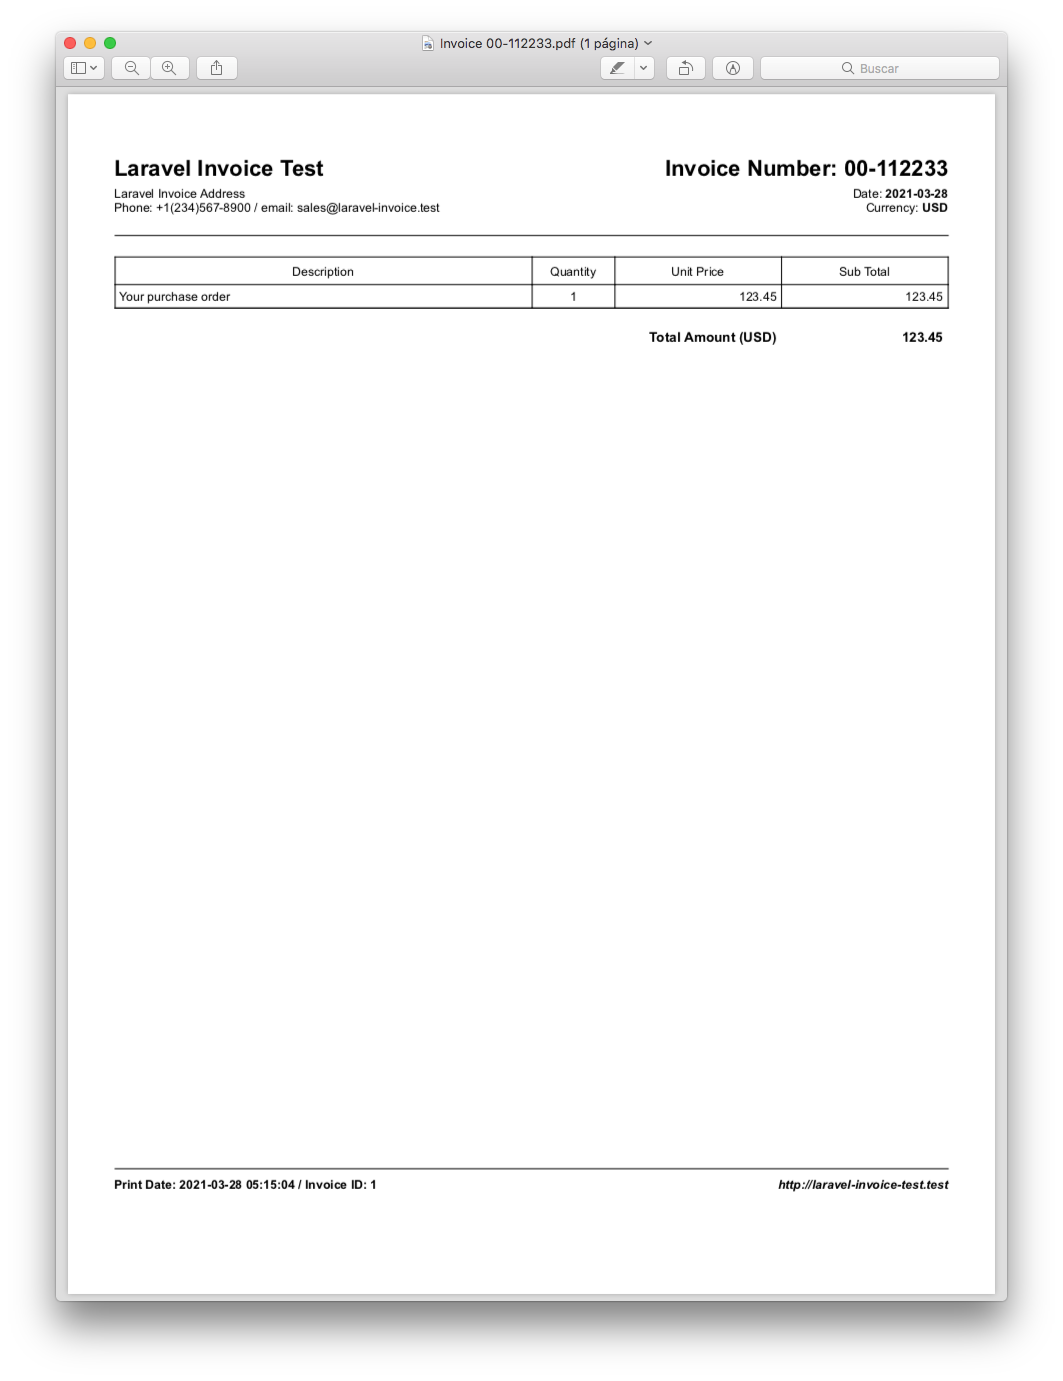
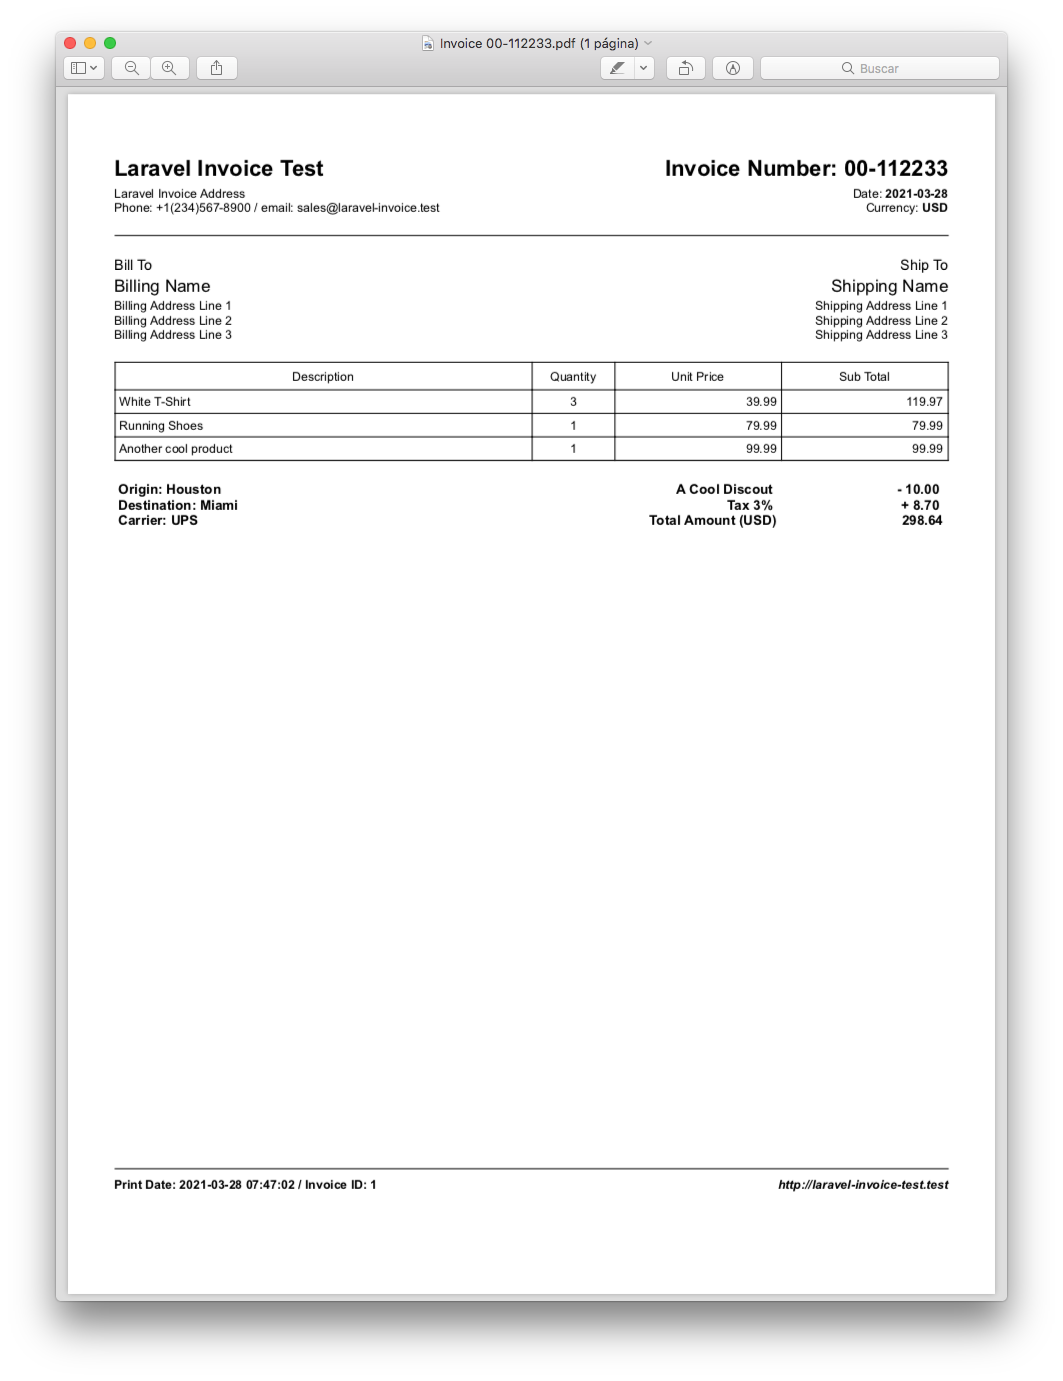
readme

diff --git a/README.md b/README.md
@@ -7,12 +7,32 @@ Laraval package that allows you to create invoices, manage payments and track th
 
 use AroutinR\Inovoice\Facades\CreateInvoice;
 
-$invoice = CreateInvoice::for(User::class, Order::class)
-	->invoiceLine('Your purchase order', 1, 12345)
+return CreateInvoice::for($customer, $invoiceable)
+	->billingAddress([
+		'name' => 'Billing Name',
+		'line_1' => 'Billing Address Line 1',
+		'line_2' => 'Billing Address Line 2',
+		'line_3' => 'Billing Address Line 3',
+	])
+	->shippingAddress([
+		'name' => 'Shipping Name',
+		'line_1' => 'Shipping Address Line 1',
+		'line_2' => 'Shipping Address Line 2',
+		'line_3' => 'Shipping Address Line 3',
+	])
+	->invoiceNumber('00-112233')
+	->invoiceLine('White T-Shirt', 3, 3999)
+	->invoiceLine('Running Shoes', 1, 7999)
+	->invoiceLine('Another cool product', 1, 9999)
+	->fixedDiscountLine('A Cool Discout', 1000)
+	->taxLine('Tax 3%', 3)
+	->customField('Origin', 'Houston')
+	->customField('Destination', 'Miami')
+	->customField('Carrier', 'UPS')
 	->saveAndView();
 ```
 
-This will print an invoice in a simple and fully customizable format.
+This will return a view with a simple and fully customizable invoice format.
 
 ![Laravel Invoice Screenshot](/resources/images/invoice_example.png)
 
@@ -183,7 +203,7 @@ class HomeController extends Controller
 			->customField('Invoice Terms', 'Due on receipt') // Optional
 			->customField('Origin', 'Houston') // Optional
 			->customField('Destination', 'Miami') // Optional
-			->customField('Carrier', 'UPS'); // Optional
+			->customField('Carrier', 'UPS') // Optional
 
 			// Finally, use the save() method to create the invoice and store it in the database 
 			// or saveAndView() to store and return the invoice format for printing.
